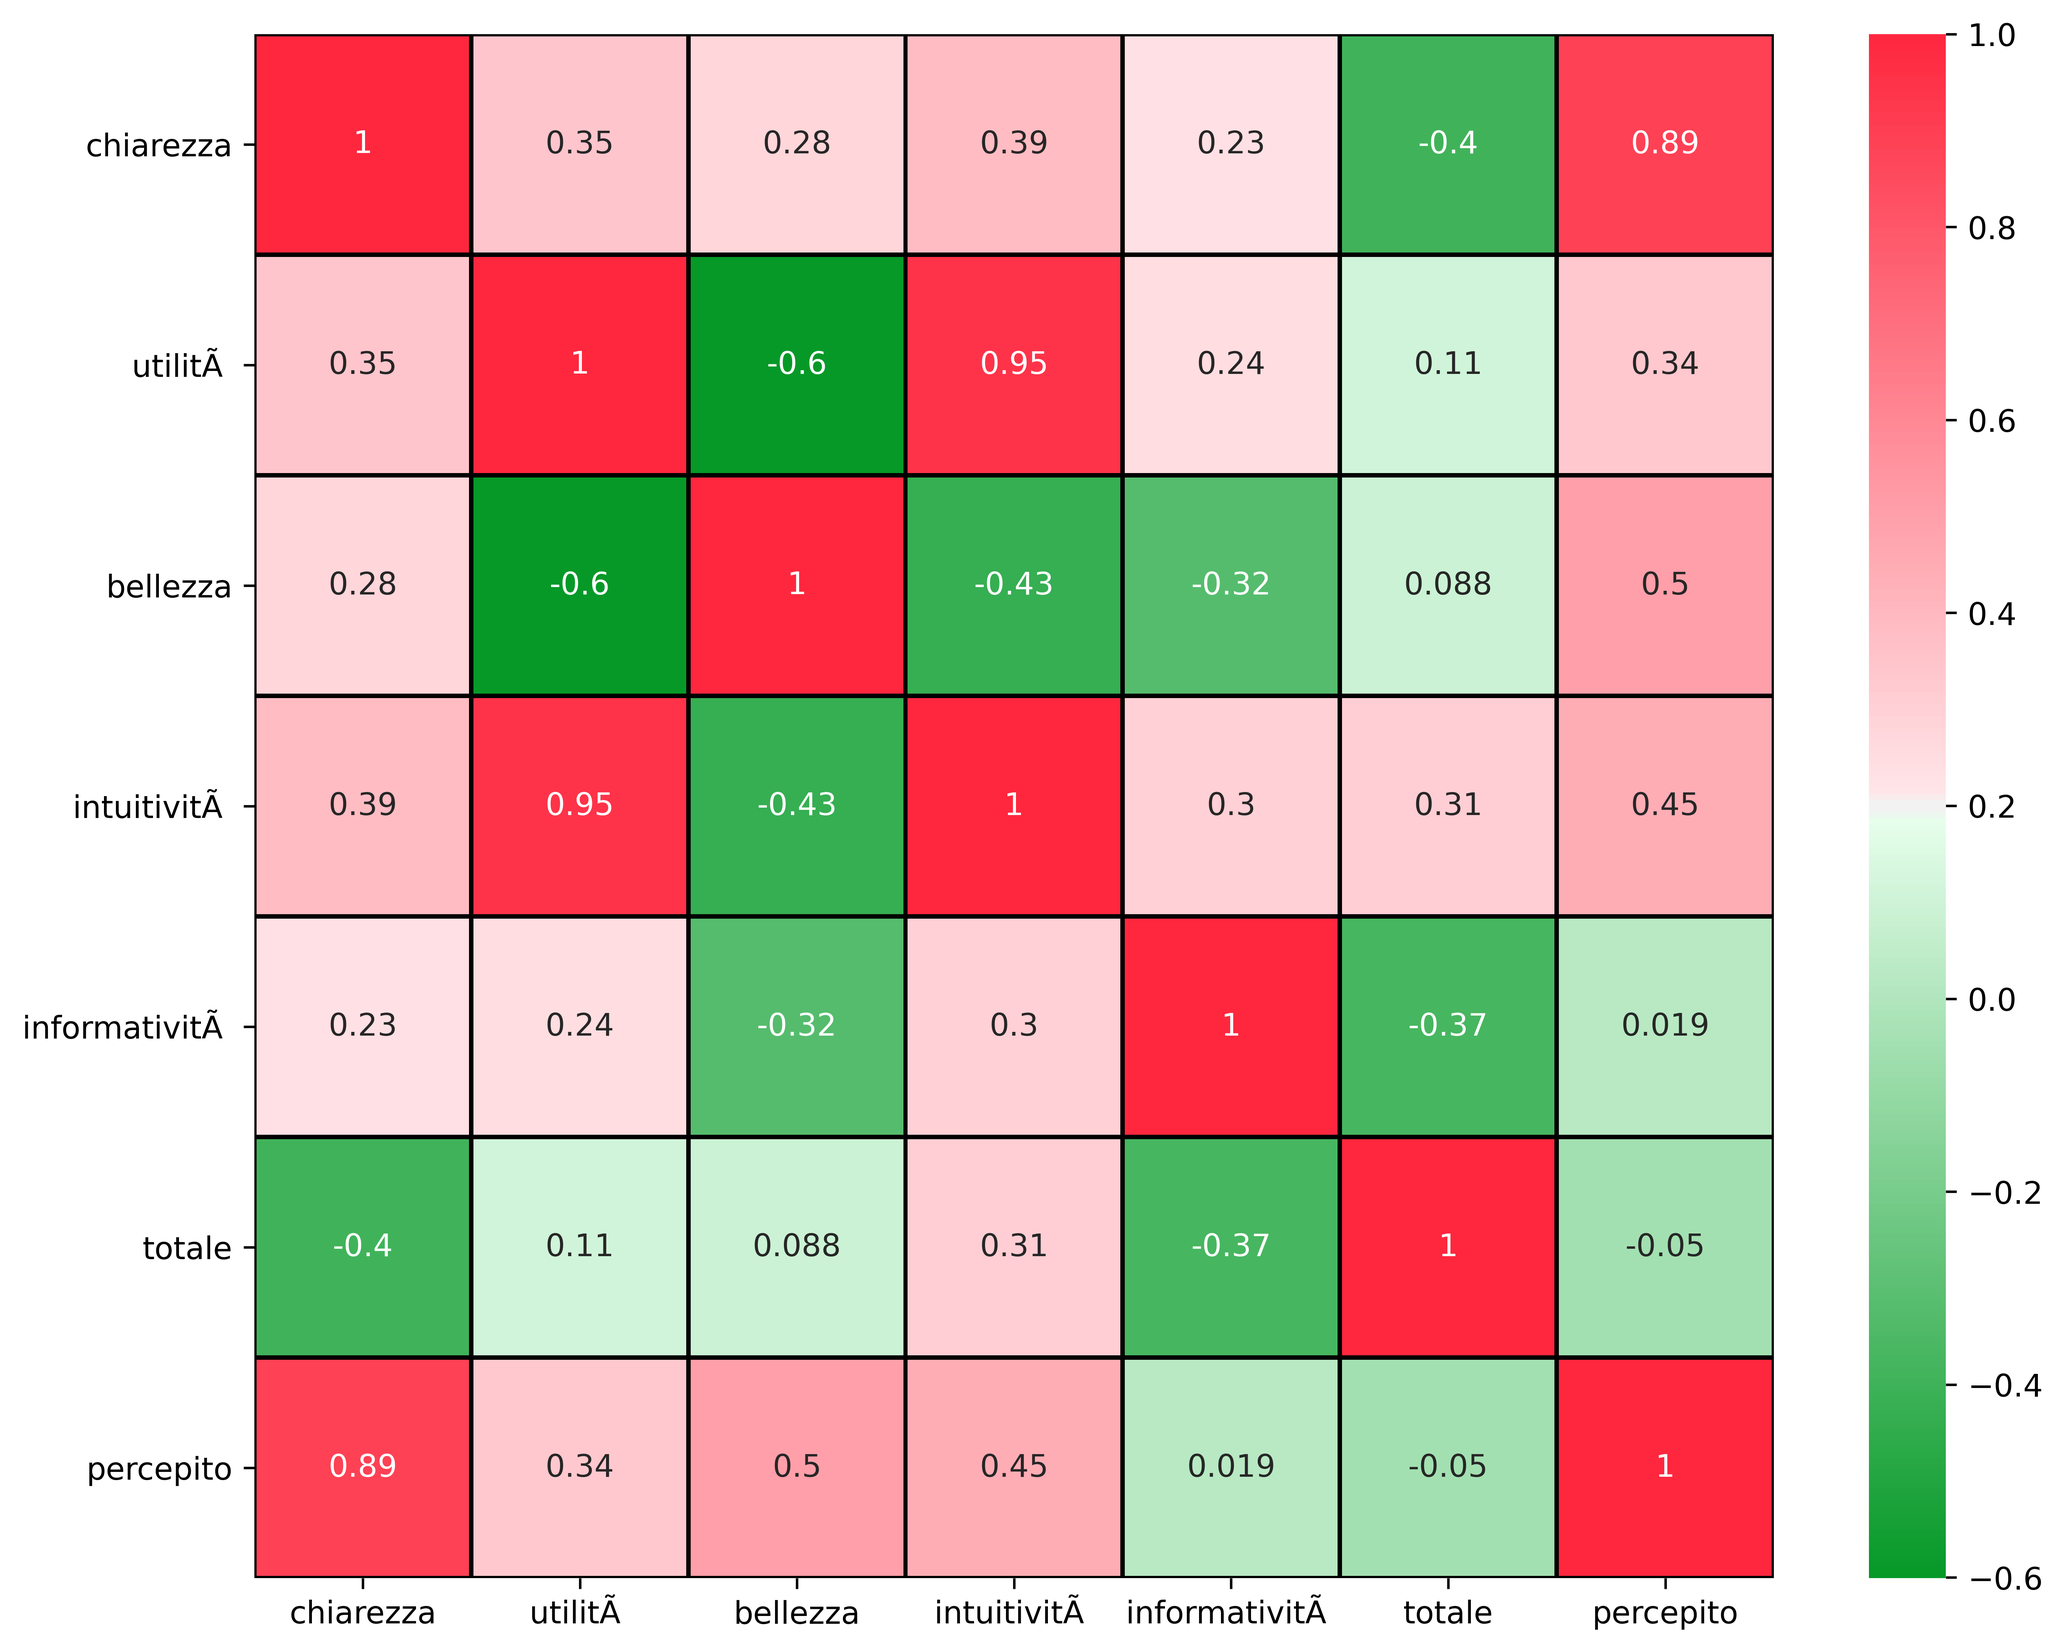
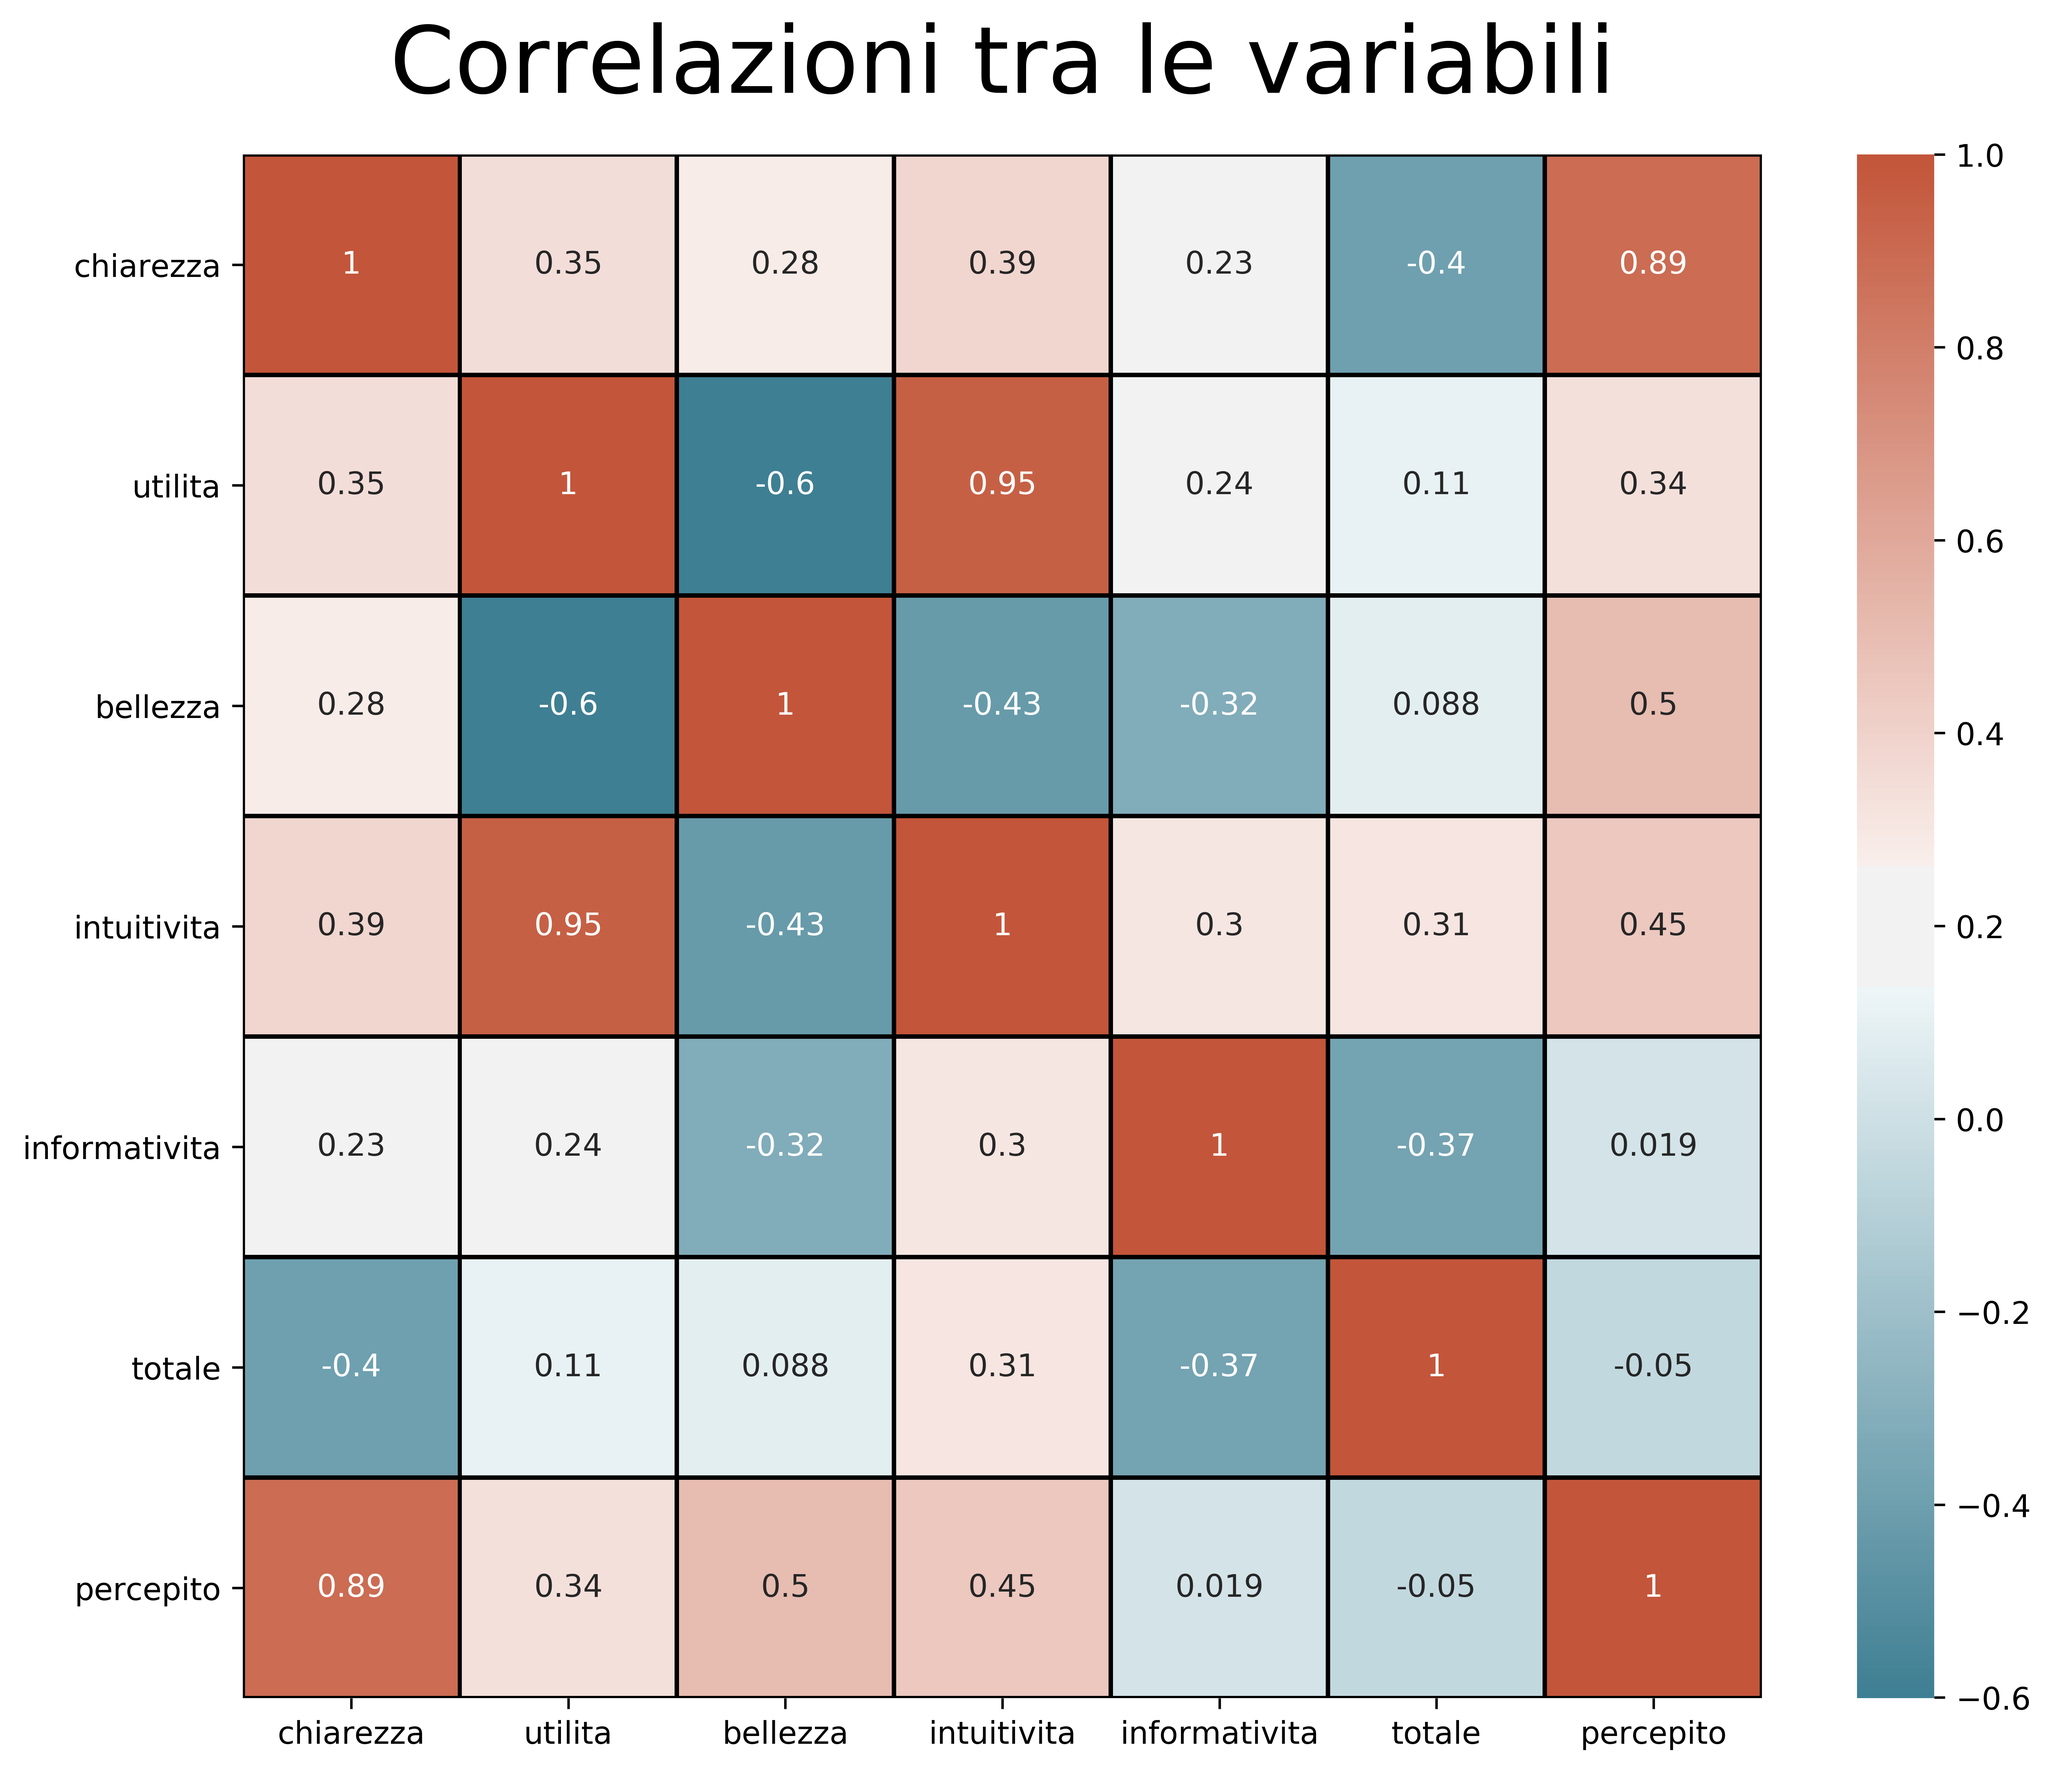
Fix all the quality plots

diff --git a/quality/quality.py b/quality/quality.py
@@ -26,93 +26,51 @@ def correlation_plot(data, out_dir):
     fig, ax = plt.subplots(figsize=(11, 9))
 
     # Generate a custom diverging colormap
-    cmap = sns.diverging_palette(h_neg=130, h_pos=10, s=99, l=55, sep=3, as_cmap=True)
+    cmap = sns.diverging_palette(220, 20, sep=20, as_cmap=True)
 
     # Draw the heatmap with the mask and correct aspect ratio
     
     sns.heatmap(corr, cmap=cmap,  annot=True, 
             linewidths=1.3, linecolor='black', cbar=True, ax=ax)
     plt.yticks(rotation = 0)
+    plt.title("Correlazioni tra le variabili", size = 30, pad = 20)
     plt.show()
     fig.savefig(out_dir + '/risposte_correlation_plot.png', bbox_inches='tight', dpi = 600)
 
-def box_plot(data, out_dir):
+def box_plot_1(data, out_dir):
     '''
-    Disegna un box plot:
+    Disegna il box plot della prima infografica
     @params:
-        data:   dati di cui viene disegnato il box plot
+        data:   Dati di cui disegnare i violin plot.
     '''
-    plt.style.use('seaborn')
-    fig, ax= plt.subplots(figsize=(15, 8))
-
-    bp = ax.boxplot(data, sym='k+', 
-                notch=True, bootstrap=5000, patch_artist=True)
-    ax.yaxis.grid(True, linestyle='-', which='major', color='lightgrey',
-               alpha=0.5)
-
-    ax.set_axisbelow(True)
-    ax.set_title('Visualizzazione della questionario di qualità')
-    ax.set_xlabel('Distribuzione')
-    ax.set_ylabel('Valori')
-    ax.set_ylim(0,6.5)
-    ax.set_xticklabels(['chiarezza', 'utilità', 'bellezza', 'intuitività', 'informatività','totale'],
-                    rotation=45, fontsize=8)
-    
-
-    colors = [(0.2,0.1,0.3), (0.9,0.8,0.4), (0.2,0.3,0.7), (0.7,0.2,0.4), (0.5,0.3,0.2), (0.3,0.2,0.5)]
-
-    for box, color in zip(bp['boxes'], colors):
-        box.set(color= color, linewidth=2)
-        box.set(facecolor = color )
-        box.set(hatch = '/')
-
+    data = data.melt(var_name='Categories', value_name='Vote')
+    sns.boxplot(x="Categories", y="Vote",data = data, palette="Set3", notch = True)
+    plt.grid()
+    plt.title("Risposte della prima infografica", pad = 20)
     plt.show()
-    fig.savefig(out_dir + '/risposte_box_plot.png', bbox_inches='tight', dpi = 600)
+    plt.savefig(out_dir + '/risposte_box_plot_first.png', bbox_inches='tight', dpi = 600)
 
-def violin_plot(data, out_dir):
+def box_plot_2(data, out_dir):
     '''
-    Disegna un violin plot dei dati:
+    Disegna il box plot della prima infografica
     @params:
-        data:  dati di cui viene disegnato il violin plot 
+        data:   Dati di cui disegnare i violin plot.
     '''
-    fig, ax= plt.subplots(figsize=(15, 8))
+    data = data.melt(var_name='Categories', value_name='Vote')
+    sns.boxplot(x="Categories", y="Vote",data = data, palette="Set3", notch = True)
+    plt.grid()
+    plt.title("Risposte della seconda infografica", pad = 20)
+    plt.show()  
+    plt.savefig(out_dir + '/risposte_box_plot_second.png', bbox_inches='tight', dpi = 600)
 
-    bp = ax.violinplot(data, showmeans=True, showmedians=True,
-        showextrema=True)
-    ax.yaxis.grid(True, linestyle='-', which='major', color='lightgrey',
-               alpha=0.5)
-
-    pos   = [1, 2, 3,4,5,6]
-    label = ['chiarezza', 'utilità', 'bellezza', 'intuitività', 'informatività','totale']
-    ax.set_axisbelow(True)
-    ax.set_title('Visualizzazione della questionario di qualità')
-    ax.set_xlabel('Distribuzione')
-    ax.set_ylabel('Valori')
-    ax.set_xticks(pos)
-    ax.set_xticklabels(label)
-    ax.set_ylim(0,6.5)
-    # Non so perché ma scala le etichette dei valori a destra di 1, quindi inserisco un valore prima in modo da averli tutti
-    
-
-    colors = [(0.2,0.1,0.3), (0.9,0.8,0.4), (0.2,0.3,0.7), (0.7,0.2,0.4), (0.5,0.3,0.2), (0.3,0.2,0.5)]
-
-    for pc, color in zip(bp['bodies'],colors):
-        pc.set_facecolor(color)
-        pc.set_edgecolor(color)
-        pc.set_alpha(1)
-
-    plt.show()
-    fig.savefig(out_dir + '/risposte_violin_plot.png', bbox_inches='tight', dpi = 600)
-
-def scatter_plot(x, y, out_dir):
+def scatter_plot_1(x, y, out_dir):
     '''
-    Disegna uno scatter plot dei dati:
+    Disegna uno scatter plot per il percepito della seconda infografica:
     @params:
         x:  Prima grandezza da confrontare 
         y:  Seconda grandezza da confrontare
     '''
-        
-    fig = plt.figure(figsize=(15,8))
+    
     plt.plot(x,y, '+', color = (0.2,0.1,0.3))
 
     
@@ -125,9 +83,36 @@ def scatter_plot(x, y, out_dir):
     plt.xlabel('Dichiarato', size = 35) 
     plt.ylabel('Calcolato', size = 35) 
     plt.legend(loc="best", prop={'size': 15})
+    plt.title("Scatter plot seconda infografica", size = 35)
     plt.show()
     plt.ioff()
-    fig.savefig(out_dir + '/risposte_scatter_plot.png', bbox_inches='tight', dpi = 600)
+    plt.savefig(out_dir + '/risposte_scatter_plot_first.png', bbox_inches='tight', dpi = 600)
+
+
+def scatter_plot_2(x, y, out_dir):
+    '''
+    Disegna uno scatter plot per il percepito della seconda infografica:
+    @params:
+        x:  Prima grandezza da confrontare 
+        y:  Seconda grandezza da confrontare
+    '''
+        
+    plt.plot(x,y, '+', color = (0.2,0.1,0.3))
+
+
+    #Plot of the bisector, the line in which the poinst must be in the neighborhood
+    plt.plot([0,6],[0,6], "r--", color = "deepskyblue", label = "Perfect Correlation")
+    plt.xticks( fontsize = 20)
+    plt.yticks( fontsize = 20)
+    plt.xlim(0,6)
+    plt.ylim(0,6)
+    plt.xlabel('Dichiarato', size = 35) 
+    plt.ylabel('Calcolato', size = 35) 
+    plt.legend(loc="best", prop={'size': 15})
+    plt.title("Scatter plot seconda infografica", size = 35)
+    plt.show()
+    plt.ioff()
+    plt.savefig(out_dir + '/risposte_scatter_plot_second.png', bbox_inches='tight', dpi = 600)
 
 def quality(out_dir):
     '''
@@ -139,46 +124,50 @@ def quality(out_dir):
     terzo_coefficiente = 0.190
     quarto_coefficiente = 0.174
     quinto_coefficiente = 0.151
-    risposte = pd.read_csv("risposte.csv")
+    risposte_prima_info = pd.read_csv("risposte_prima_info.csv")
+    risposte_seconda_info = pd.read_csv("risposte_seconda_info.csv")
 
     # Rename the columns.
 
-    risposte.columns = ['time_stemp', 'chiarezza', 'utilità', 'bellezza', 'intuitività', 'informatività','totale']
+    risposte_prima_info.columns = ['timestamp', 'chiarezza', 'utilita', 'bellezza', 'intuitivita', 'informativita','totale']
+    risposte_seconda_info.columns = ['timestamp', 'chiarezza', 'utilita', 'bellezza', 'intuitivita', 'informativita','totale']
 
     # Drop the column time_stemp
 
-    risposte = risposte.drop('time_stemp', axis = 1)
-    print(risposte)
-    risposte['percepito'] = primo_coefficiente*risposte['chiarezza'] + secondo_coefficiente*risposte['utilità'] + terzo_coefficiente*risposte['bellezza'] 
-    + quarto_coefficiente*risposte['intuitività'] + quinto_coefficiente*risposte['informatività']
+    risposte_prima_info = risposte_prima_info.drop('timestamp', axis = 1)
+    risposte_seconda_info = risposte_seconda_info.drop('timestamp', axis = 1)
 
+    
+    risposte_prima_info['percepito'] = primo_coefficiente*risposte_prima_info['chiarezza'] + secondo_coefficiente*risposte_prima_info['utilita'] + terzo_coefficiente*risposte_prima_info['bellezza'] 
+    + quarto_coefficiente*risposte_prima_info['intuitivita'] + quinto_coefficiente*risposte_prima_info['informativita']
+
+    risposte_seconda_info['percepito'] = primo_coefficiente*risposte_seconda_info['chiarezza'] + secondo_coefficiente*risposte_seconda_info['utilita'] + terzo_coefficiente*risposte_seconda_info['bellezza'] 
+    + quarto_coefficiente*risposte_seconda_info['intuitivita'] + quinto_coefficiente*risposte_seconda_info['informativita']
+    
     # Creates the new summarize column
+ 
     
-    print('-----------------------------------------------------')
-    a = pd.DataFrame(round(risposte.describe(),2))
-    print(a)
-    dati = [risposte['chiarezza'], risposte['utilità'], risposte['bellezza'], risposte['intuitività'], risposte['informatività'], risposte['totale']]
-
-    # Implemento anche l'indice R^2 per vedere come si comporta.
-    
-    
+    dati_prima_info = risposte_prima_info[['chiarezza','utilita','bellezza','intuitivita','informativita','totale']]
+    dati_seconda_info = risposte_seconda_info[['chiarezza','utilita','bellezza','intuitivita','informativita','totale']]
     # Calcoliamo ora com'è la correlazione tra la valutazione totale di un utente e la percezione teorica. Mostriamo anche su uno scatter plot la distribuzione.
-    print('-----------------------------------------------------')
 
-    totale = np.array(risposte['totale'])
-    percepito = np.array(risposte['percepito'])
+    '''
+    totale = np.array(risposte_seconda_info['totale'])
+    percepito = np.array(risposte_seconda_info['percepito'])
     r = round((np.corrcoef(totale, percepito)[0, 1])**2, 3)
 
     
     print("L'indice r^2 vale", r)
-
+    '''
     # Disegno tutti i grafici.
+    box_plot_1(dati_prima_info, out_dir)
+    box_plot_2(dati_seconda_info, out_dir)
 
-    #box_plot(dati)
-    violin_plot(dati, out_dir)
-    #scatter_plot(risposte['totale'], risposte['percepito'])
-    #plot_corr(risposte)
-    correlation_plot(risposte, out_dir)
+    scatter_plot_1(risposte_prima_info['totale'], risposte_prima_info['percepito'], out_dir)
+    scatter_plot_2(risposte_seconda_info['totale'], risposte_seconda_info['percepito'], out_dir)
+
+    correlation_plot(risposte_prima_info, out_dir)
+
     
 
     

diff --git a/quality/times.py b/quality/times.py
@@ -5,43 +5,20 @@ da capire se sono di immediata lettura.
 
 import matplotlib.pyplot as plt
 import pandas as pd
-import numpy as np
 import seaborn as sns
 
-def violin_plot(data, out_dir):
+def box_plot(data, out_dir):
     '''
-    Disegna il violin plot dei dati
+    Disegna il box plot dei dati
     @params:
         data:   Dati di cui disegnare i violin plot.
     '''
-    fig, ax= plt.subplots(figsize=(15, 8))
-
-    bp = ax.violinplot(data, showmeans=True, showmedians=True,
-        showextrema=True)
-    ax.yaxis.grid(True, linestyle='-', which='major', color='lightgrey',
-               alpha=0.5)
-
-    pos   = [1, 2, 3]
-    label = ['task_1', 'task_2', 'task_3']
-    ax.set_axisbelow(True)
-    ax.set_title('Esecuzione dei task')
-    ax.set_xlabel('Task')
-    ax.set_ylabel('Valori')
-    ax.set_ylim(0,6.5)
-    ax.set_xticks(pos)
-    ax.set_xticklabels(label)
-
-
-    colors = [(0.2,0.1,0.3), (0.9,0.8,0.4), (0.2,0.3,0.7)]
-
-    for pc, color in zip(bp['bodies'],colors):
-        pc.set_facecolor(color)
-        pc.set_edgecolor(color)
-        pc.set_alpha(1)
-
+    data = data.melt(var_name='Tasks', value_name='Times')
+    fig = plt.subplots(figsize=(15, 8))
+    sns.boxplot(x="Tasks", y="Times",data = data, palette="Set3")
+    plt.grid()
     plt.show()
-    fig.savefig(out_dir + '/tempi_violin_plot.png', bbox_inches='tight', dpi = 600)
-
+    plt.savefig(out_dir + '/tempi_box_plot_seaborn.png', bbox_inches='tight', dpi = 600)
 
 def times(out_dir):
     '''
@@ -49,21 +26,14 @@ def times(out_dir):
     '''
     tempi = pd.read_csv("tempi.csv")
 
-    # Rename the columns.
-
-    tempi.columns = ['id_persona', 'task_1', 'task_2', 'task_3']
-
-    print(tempi)
-
     # Creates the new summarize column
     
     print('-----------------------------------------------------')
     a = pd.DataFrame(round(tempi.describe(),2))
     print(a)
-    dati = [tempi['task_1'], tempi['task_2'], tempi['task_3']]
 
     # Calcoliamo ora com'è la correlazione tra la valutazione totale di un utente e la percezione teorica. Mostriamo anche su uno scatter plot la distribuzione.
     print('-----------------------------------------------------')
 
     # Disegno tutti i grafici.
-    violin_plot(dati, out_dir)
+    box_plot(tempi,out_dir)

diff --git a/quality/main.py b/quality/main.py
@@ -16,4 +16,4 @@ if __name__ == '__main__':
     args = parser.parse_args()
     out = args.output
     quality.quality(out)
-    times.times(out)
+    #times.times(out)
